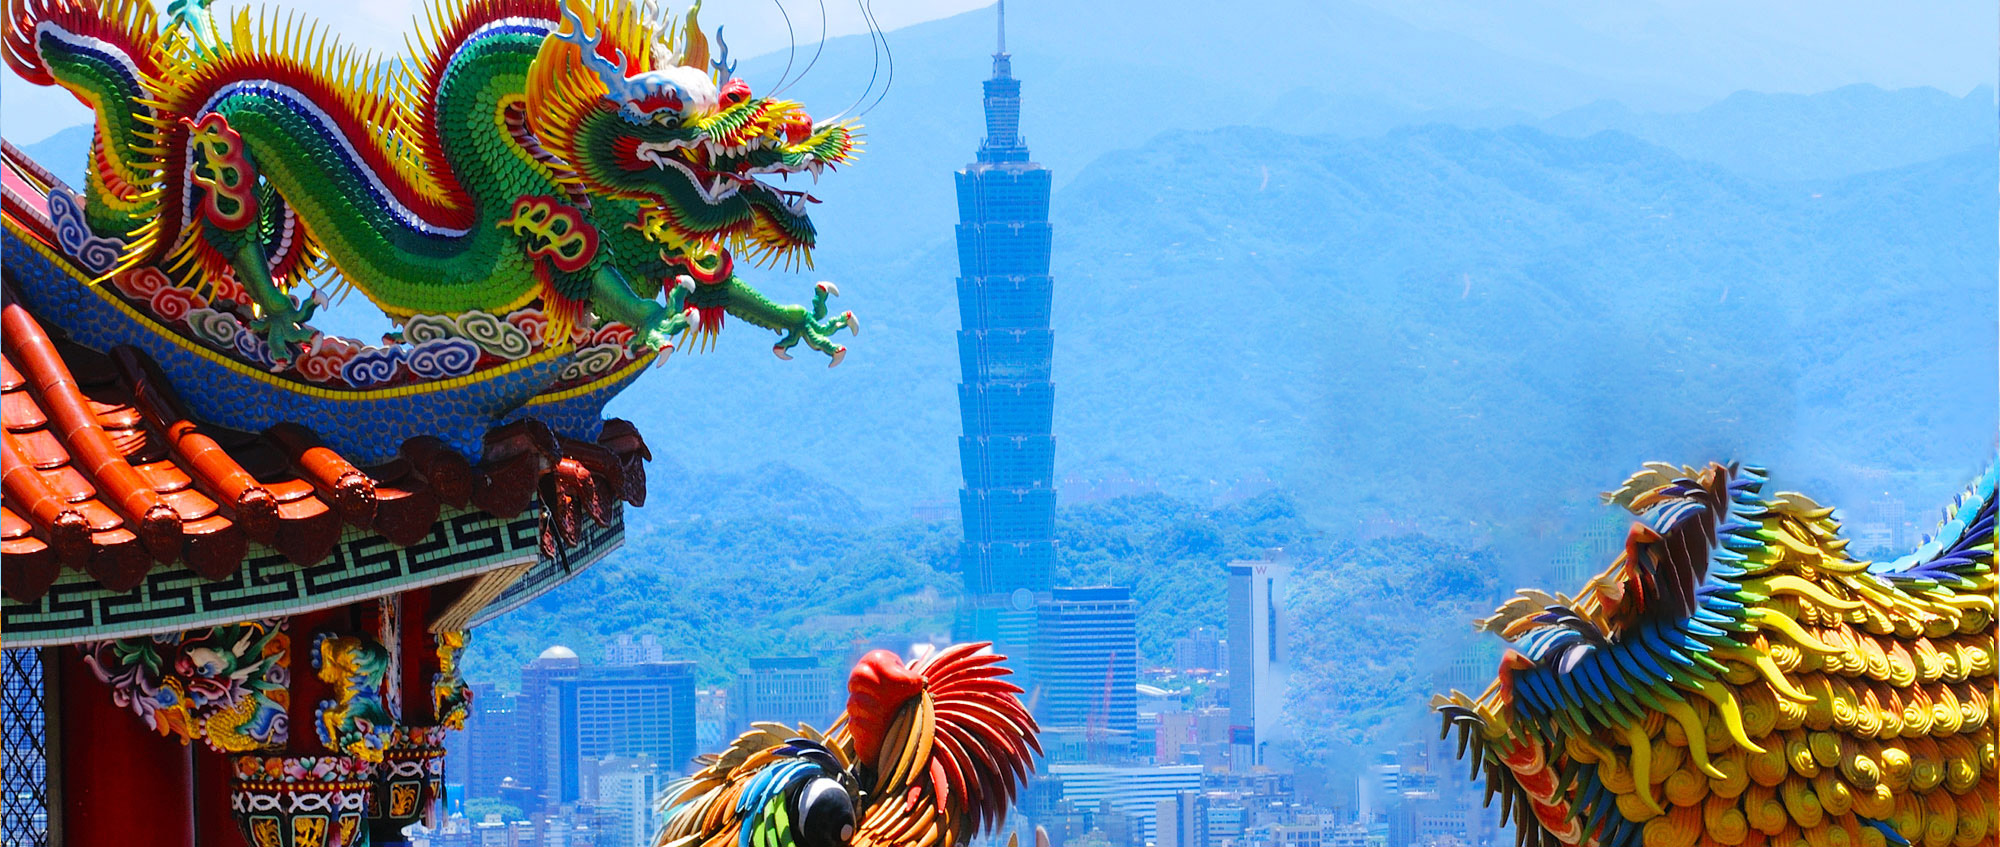
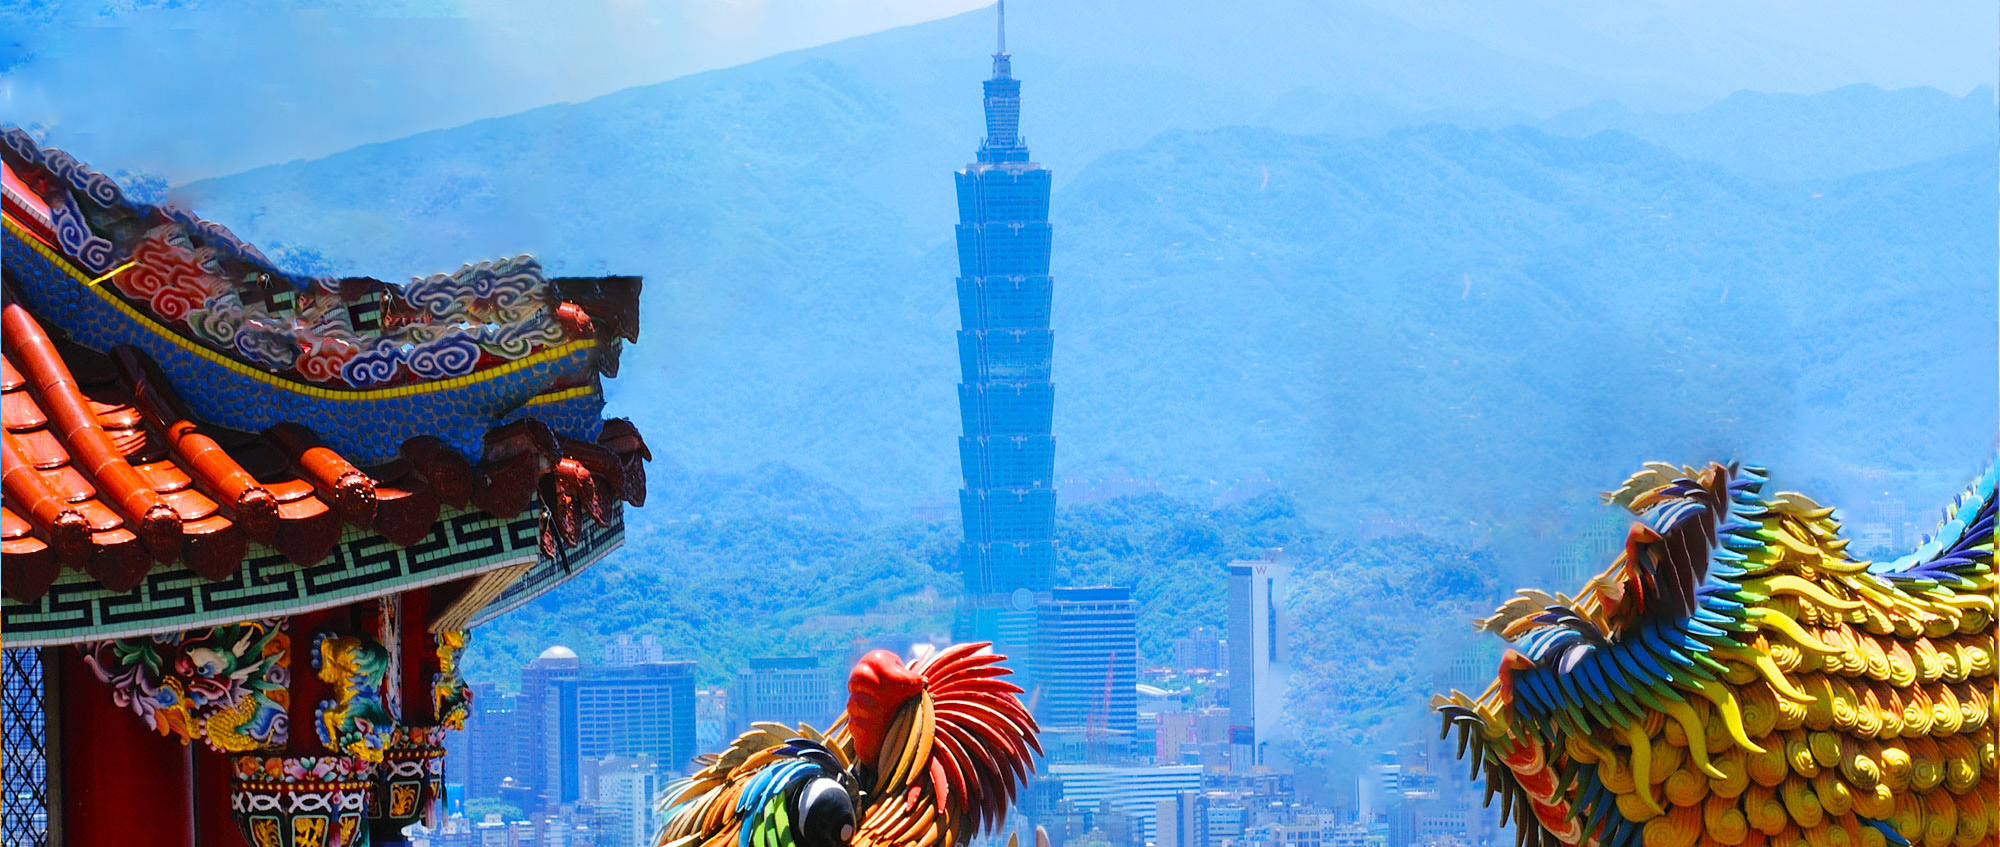
tc

Changed region(s): [[0.0, 0.0, 0.434, 0.4911], [0.434, 0.0307, 0.465, 0.0614]]

diff --git a/07fullpage/css/style.css b/07fullpage/css/style.css
@@ -16,7 +16,7 @@ to{bottom:20px;}
 
 #fullpage #page2{background-image:url(../images/content01.jpg);}
 #fullpage #page2 .main_title{position:relative;height: 650px;}
-#fullpage #page2 .main_title img{height: 650px;position:absolute; left:150px; top:-10px; animation:main_title 0.8s infinite alternate;}
+#fullpage #page2 .main_title img{position:absolute; left:150px; top:-10px; animation:main_title 0.8s infinite alternate;}
 @keyframes main_title{
 	form{left:150px;}
 	to{left:120px;}
@@ -50,16 +50,44 @@ to{bottom:20px;}
 	to{transform:scale(1.36) rotate(1deg);}
 }
 #fullpage #page3 img.dragon1.on{animation-name:dragon;}
-#fullpage #page3 .txt_body{position:absolute; width: 400px; top:50%; left:50%; transform:translate(-50%,-50%);}
-.txt_body h1{text-indent:-9999px; width: 157px; line-height:40px; margin:0 auto; background:url(../images/logo.png) no-repeat center;margin-bottom:35px;}
-.txt_body h1 a{display:block;}
-.txt_body p{text-align:center; margin-bottom:35px;}
-.txt_body .txt_body_btn{margin:0 auto;}
-.txt_body .txt_body_btn a{border:1px solid #eee;}
-.txt_body .txt_body_btn a span{display:inline-block;}
+
+#fullpage #page3 img.dragon2{position:absolute; left:-700px; top:50px; transform: scale(1.16);
+	animation-duration:2.3s;
+	animation-fill-mode:forwards;}
+@keyframes dragon_left{
+	from{left:-700px; transform:scale(1.16);}
+	to{left:0; transform:scale(1.26);}
+}
+#fullpage #page3 img.dragon2.on{animation-name:dragon_left;}
 
 #fullpage #page4{background-image:url(../images/content03.jpg);}
+#fullpage #page4 img.flower{position:absolute; left:495px; bottom:60px; transform: scale(1.16);opacity:0;
+	animation-duration:1.5s;
+	animation-fill-mode:forwards;
+}
+@keyframes flower{
+	from{transform:scale(1.16); opacity:0;}
+	to{transform:scale(1.36); opacity:1;}
+}
+#fullpage #page4 img.flower.on{animation-name:flower;}
 
 #fullpage #page5{background-image:url(../images/content04.jpg);}
 
 #fullpage .section{background-repeat:no-repeat;background-position:center;background-size:cover;}
+
+.txt_body{position:absolute; width: 400px; top:50%; left:50%; transform:translate(-50%,-50%); background: rgba(0,0,0,0.2); padding:30px 0;}
+.txt_body h1{text-indent:-9999px; width: 157px; line-height:40px; margin:0 auto; background:url(../images/logo.png) no-repeat center;margin-bottom:35px; padding:35px;}
+.txt_body h1 a{display:block;}
+.txt_body p{text-align:center; font-size:24px;margin-bottom:35px; color:#c9d701;}
+.txt_body p span{display:inline-block; margin-bottom:20px; font-size:36px;}
+.txt_body p span.space{display:inline-block; width: 155px;}
+.txt_body .txt_slide{width:150px;position:relative;}
+.txt_body .txt_slide li.t_slide{text-align:center; position:absolute; bottom:35px; left:135px;font-size:24px;color:#794CF5; opacity:0;}
+.txt_body .btn_next{display:none;}
+.txt_body .txt_body_btn{margin:0 auto;width: 220px;}
+.txt_body .txt_body_btn .btn-click{width: 220px;border: 1px solid rgba(255, 255, 255, 0.7);background-color: transparent;border-radius: 50px;padding: 5px 0 5px 15px;position: relative;text-align: center;color: #c9d701;text-transform: uppercase;font-size: 13px; display: inline-block;}
+.txt_body .txt_body_btn .btn-click:hover span.btn_icon{left:215px;}
+.txt_body_btn .btn-click:hover .text {opacity: 0;}
+.txt_body_btn .btn-click:hover:before{position: absolute; left: 90px;content:" 여행 꿀팁!"; opacity: 1; text-align: center;}
+.txt_body .txt_body_btn .btn-click span{display:inline-block;}
+.txt_body_btn .btn_icon{position: absolute;left: 1px;top: 1px;bottom: 1px;padding: 9px 10px;border-radius: 50%;text-align: center;color: #ffdd00;background-color: rgba(255, 255, 255, 0.6);transition: all 0.5s ease;-webkit-transition: all 0.5s ease}

diff --git a/07fullpage/index.html b/07fullpage/index.html
@@ -16,8 +16,10 @@
 				anchors:["a1st","a2st","a3st","a4st"],
 				menu:"#top_menu",
 				navigation:true,
+
 				afterLoad:function(anchorslink,index){
 					if(index == 1){
+						alert("포트폴리오용으로 제작 되었으며 문제시 연락주시면 처리하겠습니다.");
 						$("#on_view_one").addClass("move");
 					}else{
 						$("#on_view_one").removeClass("move");
@@ -29,8 +31,34 @@
 					}
 					if(index == 3){
 						$(".dragon1").addClass("on");
+						$(".dragon2").addClass("on");
 					}else{
 						$(".dragon1").removeClass("on");
+						$(".dragon2").removeClass("on");
+					}
+					if(index == 4){
+						$(".flower").addClass("on");
+						var current = 0;
+						var banner = $(".txt_slide>li");
+						function slideNext(){
+
+								var currentEl = banner.eq(current);
+								current++; //다음배너값구하기 current 0 1 2 
+								if(current==3){
+									current = 0;
+								}
+								currentEl.eq(current).stop().animate({opacity:"block"});
+								console.log(currentEl)
+						}
+						$(".btn_next").click(function(){
+							slideNext();
+						});
+						function trigger(){
+						$(".btn_next").trigger("click");
+						}
+						setInterval(trigger,3000);
+					}else{
+						$(".flower").removeClass("on");						
 					}
 				}
 			});
@@ -99,26 +127,48 @@
 			</div>
 		</div>
 		<div class="section" id="page3" data-anchor="a3st">
-			<img src="images/page01_img01.png" alt="" class="dragon1" >
+			<img src="images/page01_img01.png" alt="" class="dragon1">
+			<img src="images/page01_img02.png" alt="" class="dragon2">
 			<div class="txt_body">
 				<h1><a href="#">logo</a></h1>
-				<p>TAIPEI는<br>[]이다.</p>
+				<p><span>TAIWAN</span><br>[ <span class="space"></span>]</p>
 				<div class="txt_body_btn">
-					<a href="#" data-hover="여행 꿀팁!">
-						<span>자세히보기</span>
-						<span class="btn_icon"></span>
+					<a href="#" class="btn-click">
+						<span class="text">자세히보기</span>
+						<span class="btn_icon fa fa-long-arrow-right"></span>
 					</a>
 				</div>
 			</div>
 		</div>
 		<div class="section" id="page4" data-anchor="a4st">
+			<img src="images/page02_img01.png" alt="" class="flower">
 			<div class="txt_body">
-				
+				<h1><a href="#">logo</a></h1>
+				<p><span>TAIWAN</span><br>[ <span class="space"></span>]</p>
+				<ul class="txt_slide">
+					<li class="t_slide">TAIPEI</li>
+					<li class="t_slide">TAIZHONG</li>
+					<li class="t_slide">KAOHSIUNG</li>
+				</ul>
+				<div class="btn_next"></div>
+				<div class="txt_body_btn">
+					<a href="#" class="btn-click">
+						<span class="text">자세히보기</span>
+						<span class="btn_icon fa fa-long-arrow-right"></span>
+					</a>
+				</div>
 			</div>
 		</div>
 		<div class="section" id="page5" data-anchor="a5st">
 			<div class="txt_body">
-				
+				<h1><a href="#">logo</a></h1>
+				<p><span>TAIWAN</span><br>[ <span class="space"></span>]</p>
+				<div class="txt_body_btn">
+					<a href="#" class="btn-click">
+						<span class="text">자세히보기</span>
+						<span class="btn_icon fa fa-long-arrow-right"></span>
+					</a>
+				</div>
 			</div>
 		</div>
 	</div>
